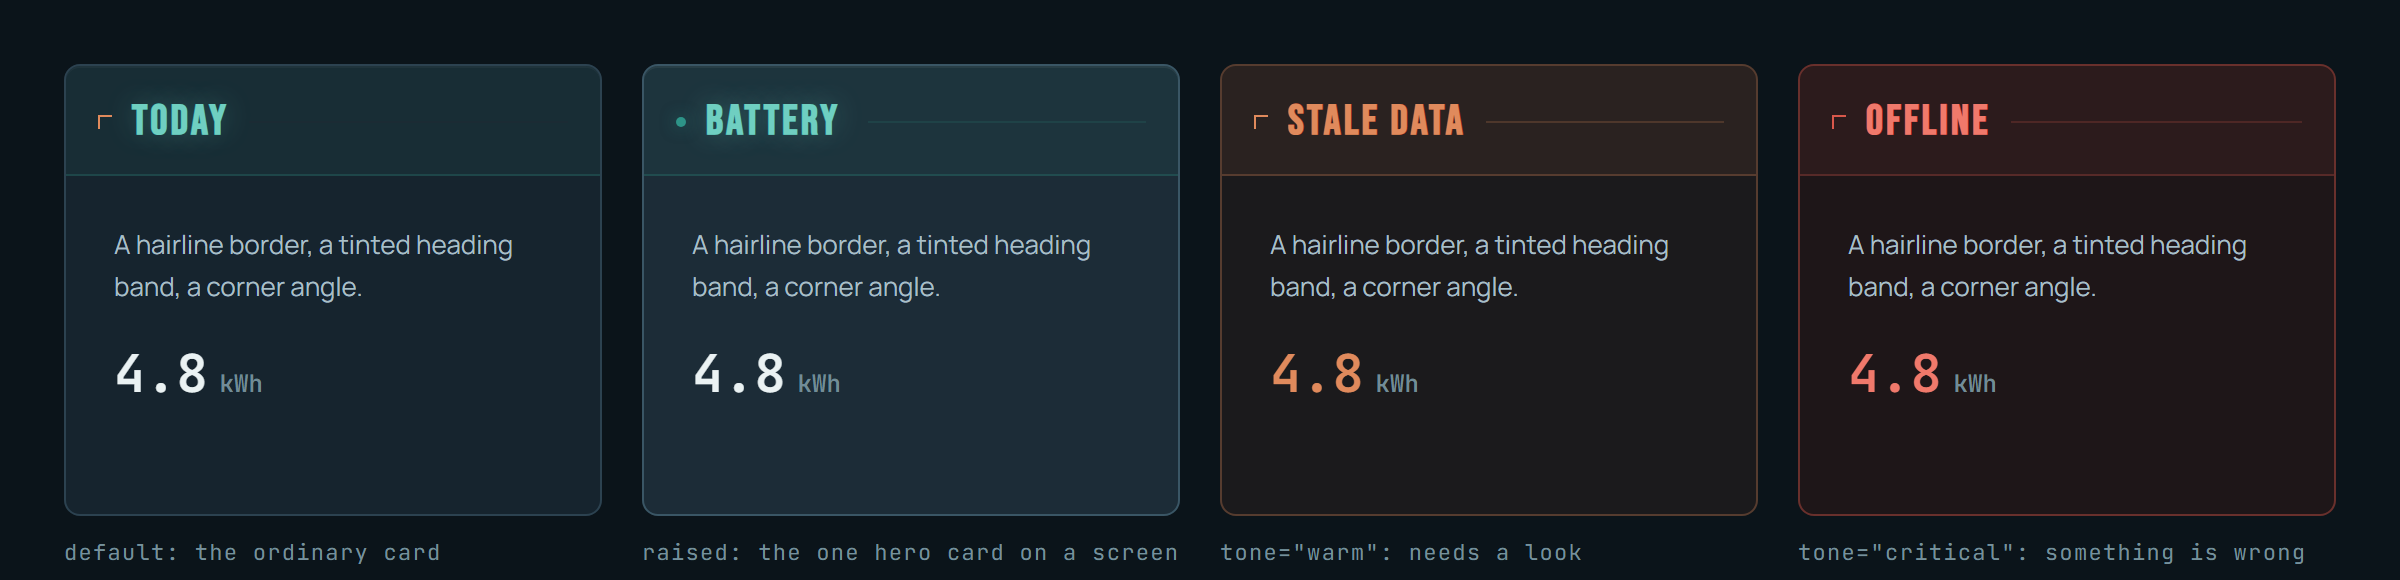
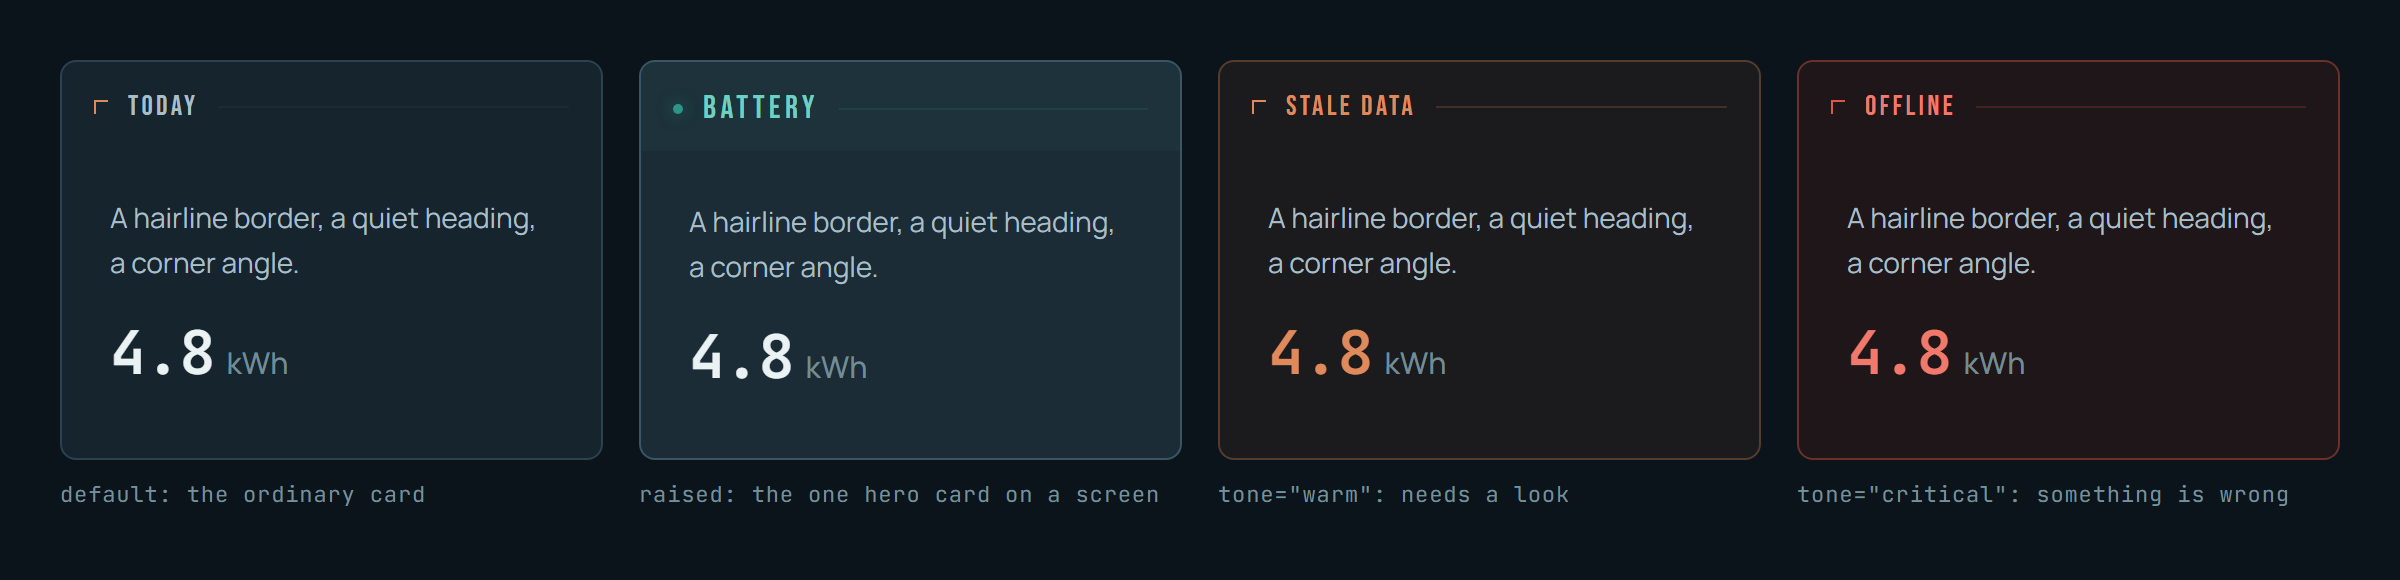
Calmer card heading: 14px regular, no tinted band, no glow; README images redrawn

diff --git a/src/components/Block.js b/src/components/Block.js
@@ -1,10 +1,10 @@
-// Harbour Ink Engraved card. A bordered panel with a corner angle, a bold bright heading on a tinted band and a hairline rule; `raised` is the one hero card
-// per screen (a glowing status dot and the bright accent over an accent wash), `tone` swaps to the warm (ember) or critical (red) treatment.
+// Harbour Ink Engraved card. A bordered panel with a corner angle, a quiet heading and a hairline rule; `raised` is the one hero card per screen (a status dot and
+// the bright accent over a faint accent wash), `tone` swaps to the warm (ember) or critical (red) treatment.
+//
+// The card heading is deliberately calm: 14px, regular weight, in the secondary text colour, no tinted band and no glow. The earlier version (21px, bold,
+// bright accent with a glow on a tinted band) was too loud once a screen had more than a few cards. The hero card's heading is 16px in the bright accent.
 import Cap from "./Cap";
 import CornerBracket from "./CornerBracket";
-
-// The card heading: 21px (17px on a narrow phone, by width), bold, in the bright accent with a soft glow, on a tinted band, so a card is easy to find at a glance.
-export const TITLE_STYLE = { fontSize: "clamp(17px, 5vw, 21px)", fontWeight: 700, letterSpacing: "0.08em", lineHeight: 1.15, textShadow: "0 0 14px #6FCFC155" };
 
 export default function Block({ theme, title, tag, children, tone = "default", raised = false, statusColor }) {
   const toneBg = raised ? theme.panelRaised : tone === "warm" ? theme.panelWarm : tone === "critical" ? theme.panelCritical : theme.panel;
@@ -16,12 +16,12 @@ export default function Block({ theme, title, tag, children, tone = "default", r
       style={{ background: toneBg, border: `1px solid ${toneBorder}`, boxShadow: raised ? "inset 0 1px 0 #FFFFFF0F" : tone === "default" ? "inset 0 1px 0 #FFFFFF0A" : "none" }}
     >
       {raised ? (
-        <div className="flex items-center gap-2.5 px-4 pb-[14px] pt-[16px]" style={{ background: `${theme.accent}14`, borderBottom: `1px solid ${theme.accent}40` }}>
+        <div className="flex items-center gap-2.5 px-4 pb-[11px] pt-[13px]" style={{ background: `${theme.accent}0F` }}>
           <span
             className="h-[5px] w-[5px] shrink-0 rounded-full"
             style={{ background: statusColor ?? theme.accent, boxShadow: `0 0 8px ${statusColor ?? theme.accent}8A` }}
           />
-          <Cap size={21} color={theme.accentBright} style={TITLE_STYLE}>
+          <Cap size={16} color={theme.accentBright} style={{ letterSpacing: "0.14em" }}>
             {title}
           </Cap>
           <span className="ml-1 h-px flex-1" style={{ background: `${theme.accent}26` }} />
@@ -32,16 +32,9 @@ export default function Block({ theme, title, tag, children, tone = "default", r
           )}
         </div>
       ) : (
-        <div
-          className="flex items-center gap-2.5 px-4 pb-[14px] pt-[16px]"
-          style={{ background: `${tone === "warm" ? theme.ember : tone === "critical" ? theme.critical : theme.accent}14`, borderBottom: `1px solid ${tone === "warm" ? theme.ember : tone === "critical" ? theme.critical : theme.accent}40` }}
-        >
+        <div className="flex items-center gap-2.5 px-4 pb-[11px] pt-[13px]">
           <CornerBracket color={tone === "critical" ? theme.critical : theme.ember} className="shrink-0" />
-          <Cap
-            size={21}
-            color={tone === "warm" ? theme.ember : tone === "critical" ? theme.criticalText : theme.accentBright}
-            style={{ ...TITLE_STYLE, textShadow: tone === "default" ? TITLE_STYLE.textShadow : "none" }}
-          >
+          <Cap size={14} color={tone === "warm" ? theme.ember : tone === "critical" ? theme.criticalText : theme.textSecondary} style={{ letterSpacing: "0.12em" }}>
             {title}
           </Cap>
           <span className="h-px flex-1" style={{ background: tone === "warm" ? `${theme.ember}33` : tone === "critical" ? `${theme.critical}33` : theme.rule }} />

diff --git a/README.md b/README.md
@@ -37,7 +37,7 @@ One cool family, one warm note. Warm is the only thing that says "look here".
 | `src/theme.js` | The tokens as a JS object (`theme.panel`, `theme.accentBright`, ...) |
 | `src/tokens.css` | The same tokens as CSS variables, for projects without the JS object |
 | `src/fonts.js` | Loads Bebas Neue, Manrope and JetBrains Mono with `next/font/google` |
-| `src/components/Block.js` | The card: corner angle, bold bright heading on a tinted band, hairline rule. `raised` for the one hero card, `tone="warm"` or `"critical"` for alerts |
+| `src/components/Block.js` | The card: corner angle, quiet heading, hairline rule. `raised` for the one hero card, `tone="warm"` or `"critical"` for alerts |
 | `src/components/Cap.js` | Condensed caption text whose letter-spacing tightens as it grows |
 | `src/components/CornerBracket.js` | The 7px corner mark used instead of focus rings and bullets |
 | `src/components/TickRuler.js` | A strip of ticks used instead of every progress bar, with run, span and marker overlays |

diff --git a/docs/PRINCIPLES.md b/docs/PRINCIPLES.md
@@ -29,7 +29,7 @@ There is one cool family (the teal accent and the blue-greys) and one warm note 
 
 | Role | Face | Notes |
 |---|---|---|
-| Headings and labels | Bebas Neue (`font-cap`) | The card heading is 21px (17px on a narrow phone), bold, `accentBright`, with a soft glow |
+| Headings and labels | Bebas Neue (`font-cap`) | The card heading is 14px, regular, in the secondary text colour, with no band and no glow; the one hero card's is 16px in `accentBright` |
 | Body | Manrope (`font-body`) | 13 to 13.5px, line height about 1.6 |
 | Every number | JetBrains Mono (`font-mono`) | Tabular figures, so columns share one grid |
 
